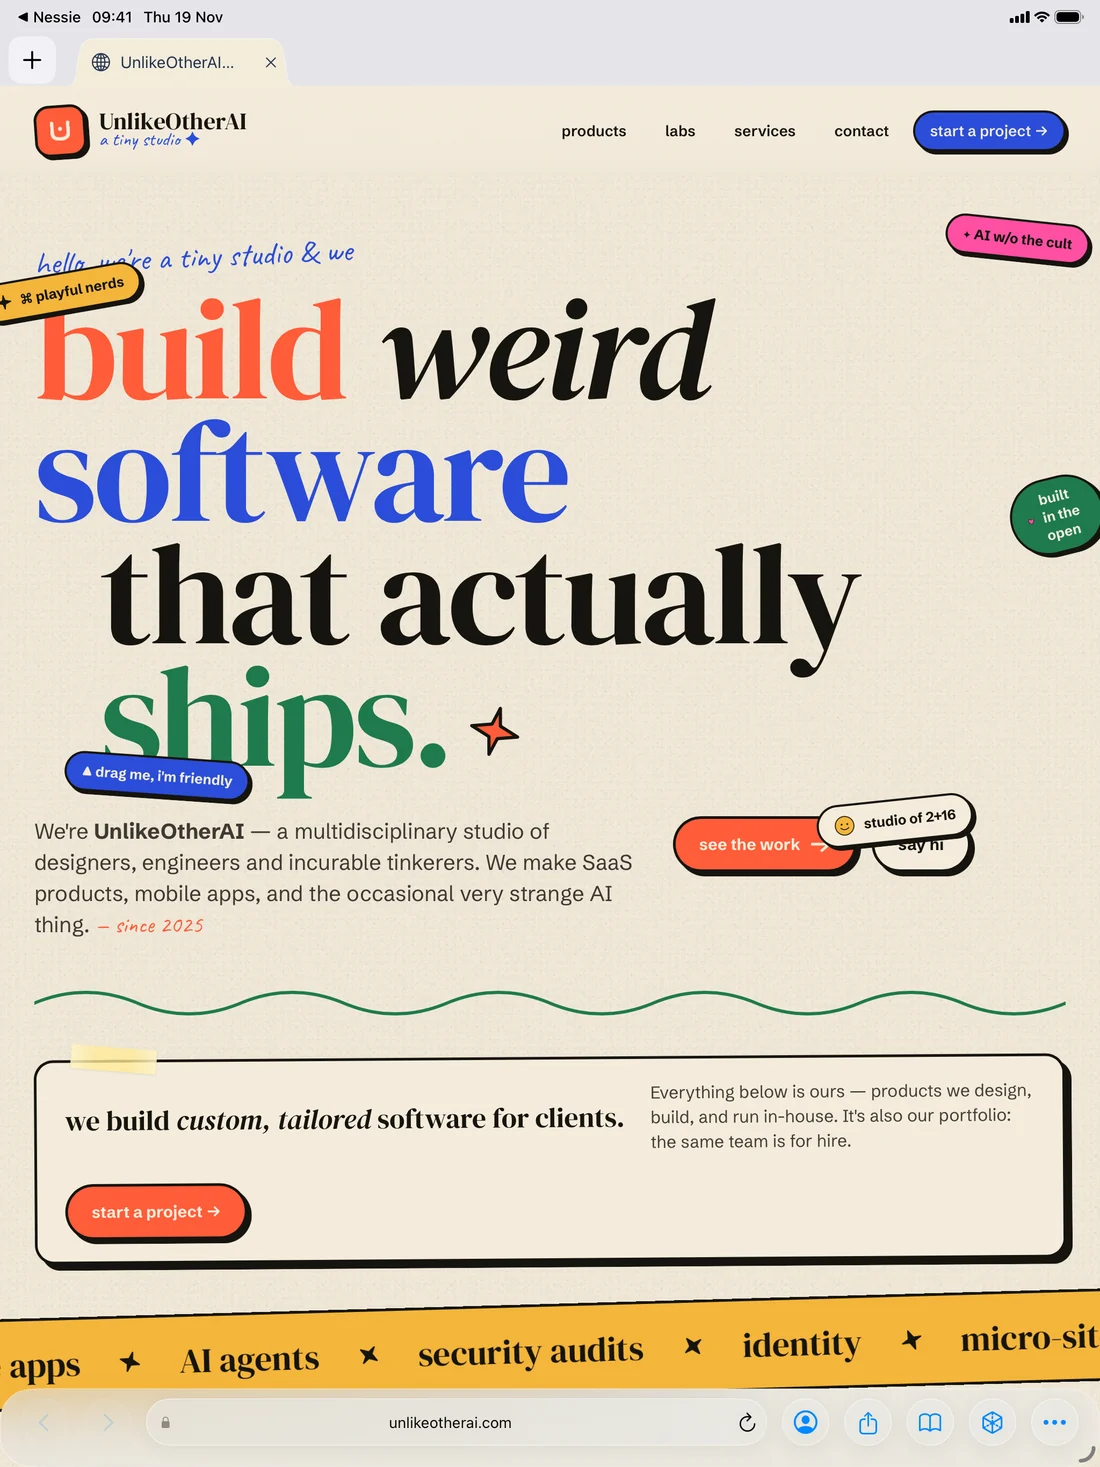
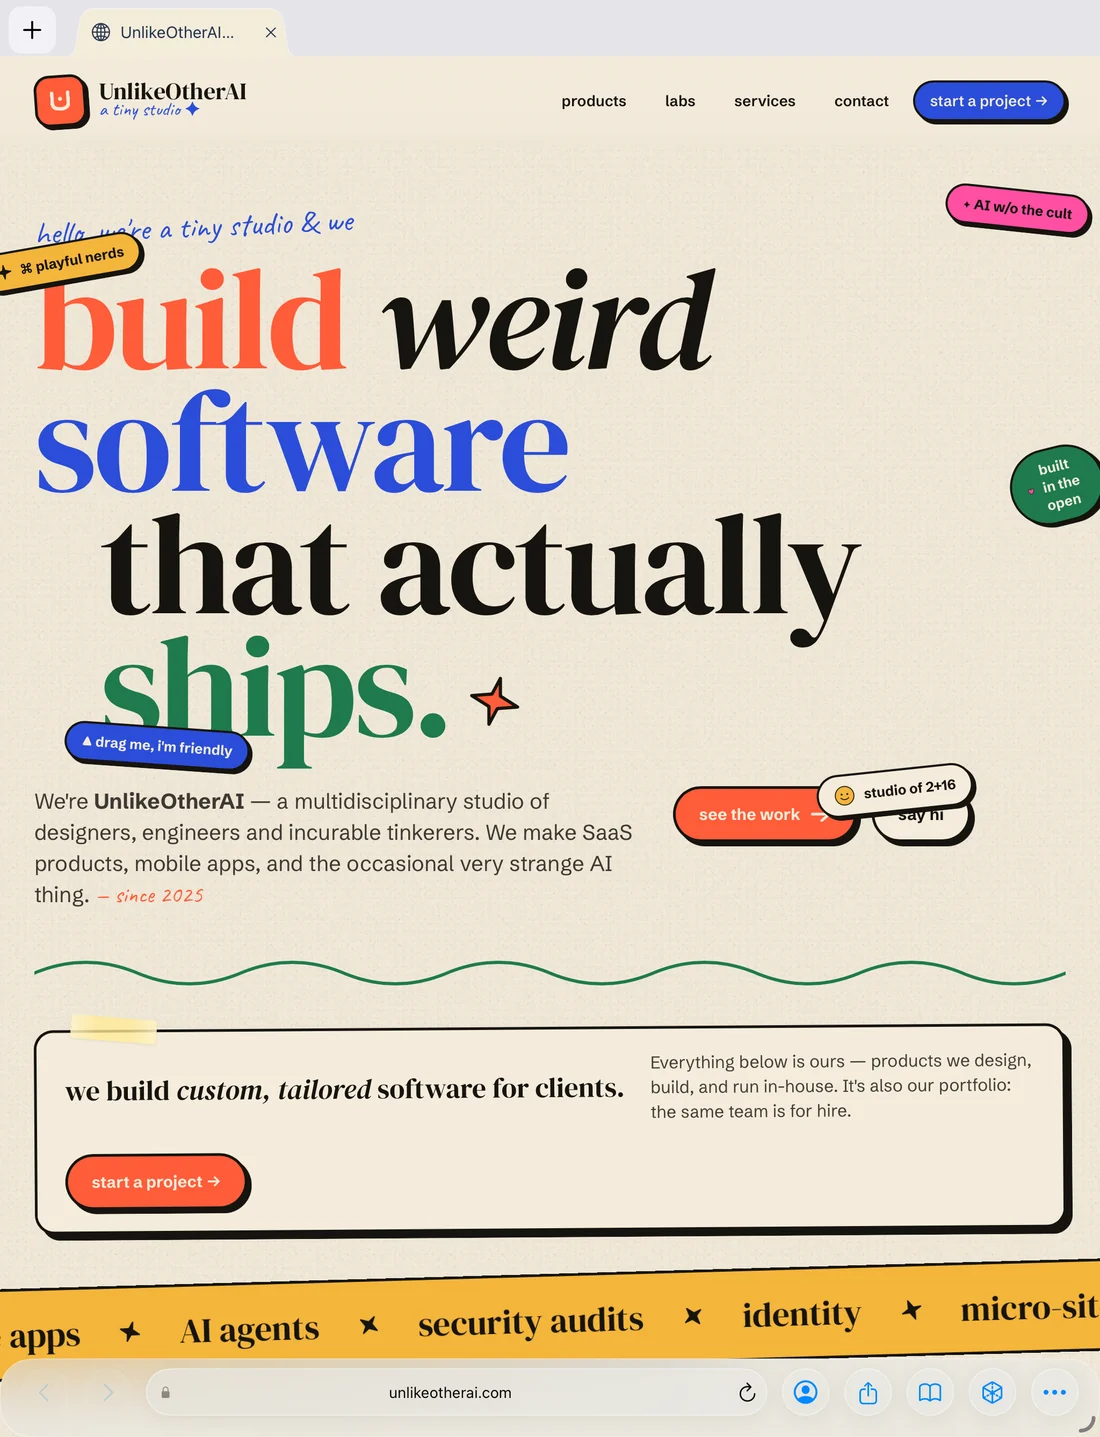
Show the current apps side by side and scale the demo phones
Add a showcase of one page in Kelpie for Windows 0.2.12, on an iPad, an
iPhone and Android, built from fresh captures of the released apps.

Measure the hero's demo page in container units so it keeps its
proportions on narrow screens, and show a still photo when scripts are off.

diff --git a/site/index.html b/site/index.html
@@ -117,6 +117,7 @@
                 </div>
               </div>
             </template>
+            <noscript><img class="wall-still" src="assets/screens/device-wall-crop.webp" alt="" width="900" height="706"></noscript>
             <div class="console">
               <div class="console-bar"><i></i>Agent session<span>kelpie mcp</span></div>
               <ol class="console-log">
@@ -140,6 +141,20 @@
         <span><svg aria-hidden="true"><use href="assets/icons.svg#monitor"/></svg>Windows</span>
         <span><svg aria-hidden="true"><use href="assets/icons.svg#terminal"/></svg>Linux</span>
       </div>
+    </div>
+  </section>
+
+  <section class="section" id="apps">
+    <div class="container">
+      <span class="kicker">The apps</span>
+      <h2 class="h2">The same browser on every screen.</h2>
+      <p class="lede">Native apps for phone, tablet and desktop, all driven through the same API. These are the current builds on Windows, iPad, iPhone and Android, showing one page.</p>
+      <figure class="showcase">
+        <div class="shot shot--window"><img src="assets/screens/windows-unlikeotherai.webp" alt="Kelpie for Windows with a tab strip, address bar and toolbar, showing unlikeotherai.com." width="1480" height="940" loading="lazy"></div>
+        <div class="shot shot--tablet"><img src="assets/screens/ipad-unlikeotherai.webp" alt="The same page in Kelpie on an iPad." width="1100" height="1437" loading="lazy"></div>
+        <div class="shot shot--phone"><img src="assets/screens/iphone-unlikeotherai.webp" alt="The same page in Kelpie on an iPhone." width="660" height="1434" loading="lazy"></div>
+        <div class="shot shot--phone"><img src="assets/screens/android-unlikeotherai.webp" alt="The same page in Kelpie on Android." width="600" height="1333" loading="lazy"></div>
+      </figure>
     </div>
   </section>
 

diff --git a/site/css/stories.css b/site/css/stories.css
@@ -119,6 +119,55 @@
   border-radius: 0;
 }
 
+/* The apps showcase: one page in a desktop window, on a tablet and on two
+   phones. The window sits behind; the devices line up along the bottom. */
+.showcase {
+  position: relative;
+  display: flex;
+  gap: clamp(8px, 1.6vw, 20px);
+  align-items: flex-end;
+  justify-content: flex-end;
+  margin-top: 48px;
+  padding-top: 19%;
+}
+
+.showcase .shot {
+  position: relative;
+  z-index: 1;
+  flex: none;
+}
+
+.showcase .shot--window {
+  position: absolute;
+  top: 0;
+  left: 0;
+  z-index: 0;
+  width: 74%;
+  padding: 0;
+  border: 1px solid #c9cdd9;
+  border-radius: 10px;
+  background: #fff;
+}
+
+.shot--window img {
+  border-radius: 0;
+}
+
+.shot--tablet {
+  width: 25%;
+  padding: 8px;
+  border-radius: 5.4% / 4.2%;
+}
+
+.shot--tablet img {
+  border-radius: 3.4% / 2.6%;
+}
+
+.shot--phone {
+  width: 14%;
+  padding: 6px;
+}
+
 .call {
   position: absolute;
   right: 0;
@@ -166,6 +215,28 @@
 }
 
 @media (max-width: 640px) {
+  .showcase {
+    flex-wrap: wrap;
+    justify-content: center;
+    padding-top: 0;
+  }
+
+  .showcase .shot--window {
+    position: static;
+    width: 100%;
+    margin-bottom: 8px;
+  }
+
+  .shot--tablet {
+    width: 44%;
+    padding: 6px;
+  }
+
+  .shot--phone {
+    width: 24%;
+    padding: 4px;
+  }
+
   .call {
     position: static;
     max-width: none;

diff --git a/site/css/wall.css b/site/css/wall.css
@@ -15,6 +15,13 @@
   padding: 0 4px;
 }
 
+/* Shown instead of the phones when scripts are off. */
+.wall-still {
+  width: 100%;
+  height: auto;
+  border-radius: 16px;
+}
+
 .wall-caption {
   margin-top: 14px;
   color: var(--k-muted);
